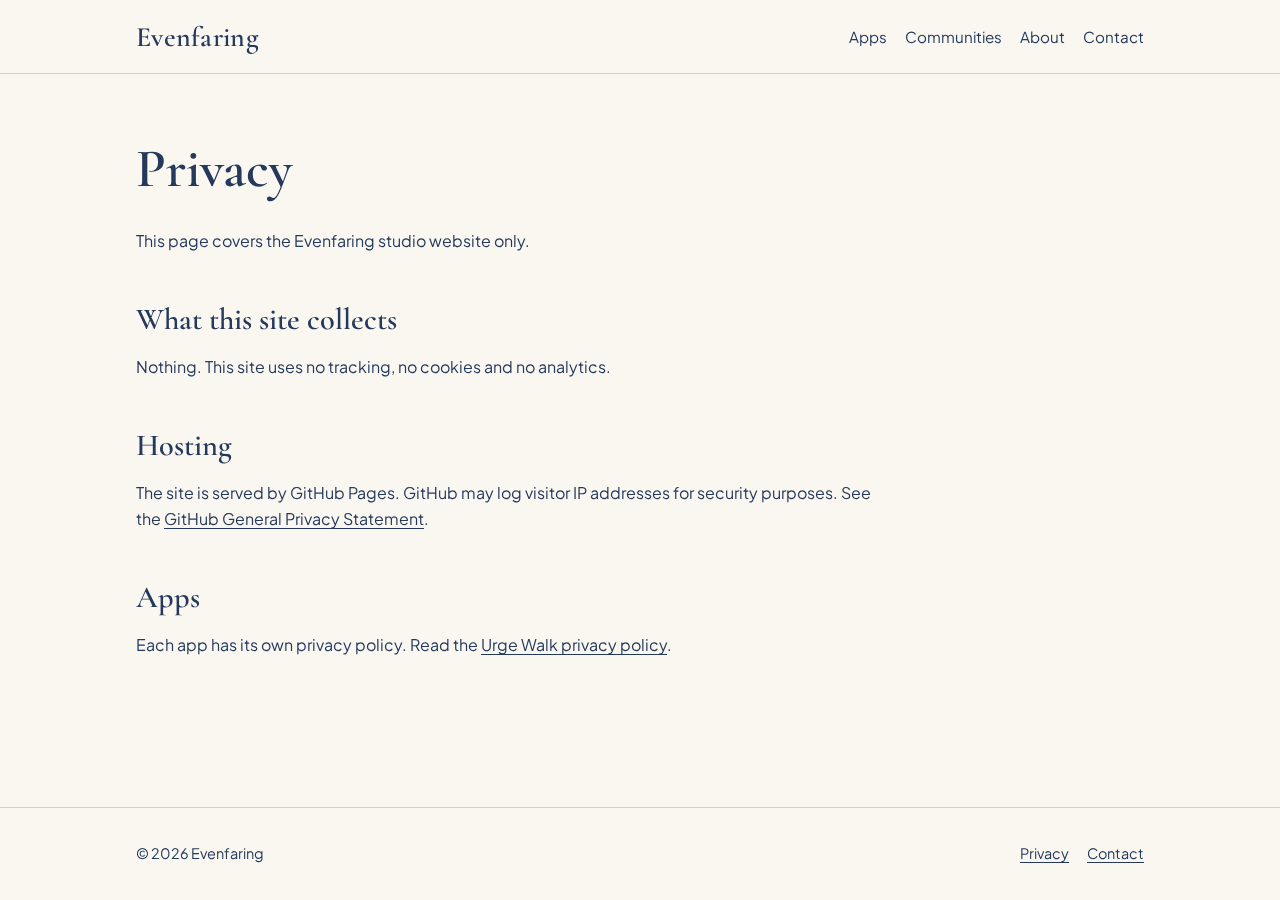
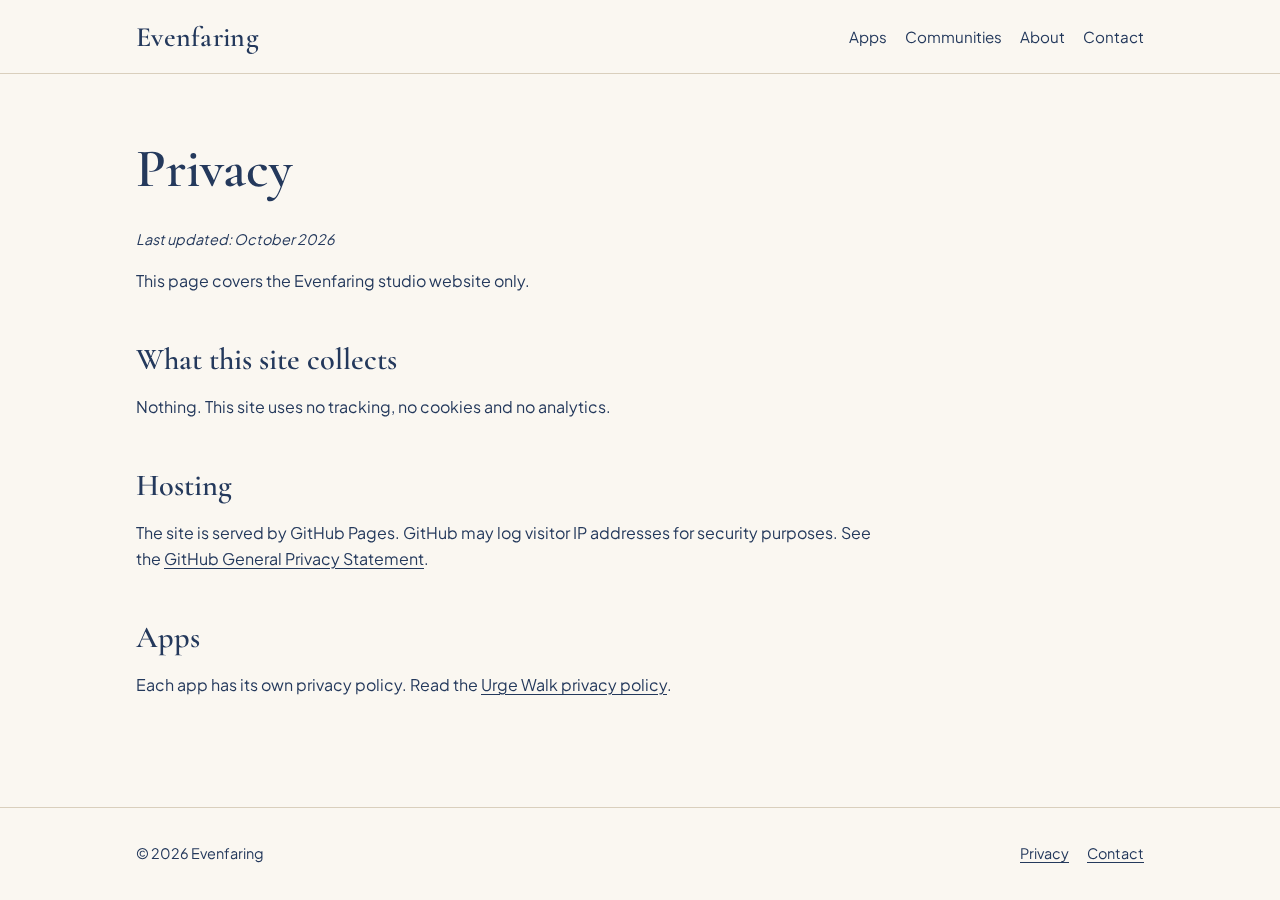
Add privacy last-updated line and contact email button

diff --git a/contact.html b/contact.html
@@ -35,7 +35,9 @@
 </div></header>
 <main id="main"><div class="wrap">
 <div class="prose"><h1>Contact</h1>
-<p>For questions about Evenfaring or any of its apps, email <a href="mailto:dariustatum@mail.grokbot.com">dariustatum@mail.grokbot.com</a>.</p></div>
+<p>For questions about Evenfaring or any of its apps, email <a href="mailto:dariustatum@mail.grokbot.com">dariustatum@mail.grokbot.com</a>.</p>
+<p>Write about app support, feedback, or press.</p>
+<p><a class="btn" href="mailto:dariustatum@mail.grokbot.com">Email Evenfaring</a></p></div>
 </div></main>
 <footer><div class="wrap">
 <p>&copy; 2026 Evenfaring</p>

diff --git a/privacy.html b/privacy.html
@@ -35,6 +35,7 @@
 </div></header>
 <main id="main"><div class="wrap">
 <div class="prose"><h1>Privacy</h1>
+<p class="status">Last updated: October 2026</p>
 <p>This page covers the Evenfaring studio website only.</p>
 <h2>What this site collects</h2>
 <p>Nothing. This site uses no tracking, no cookies and no analytics.</p>
